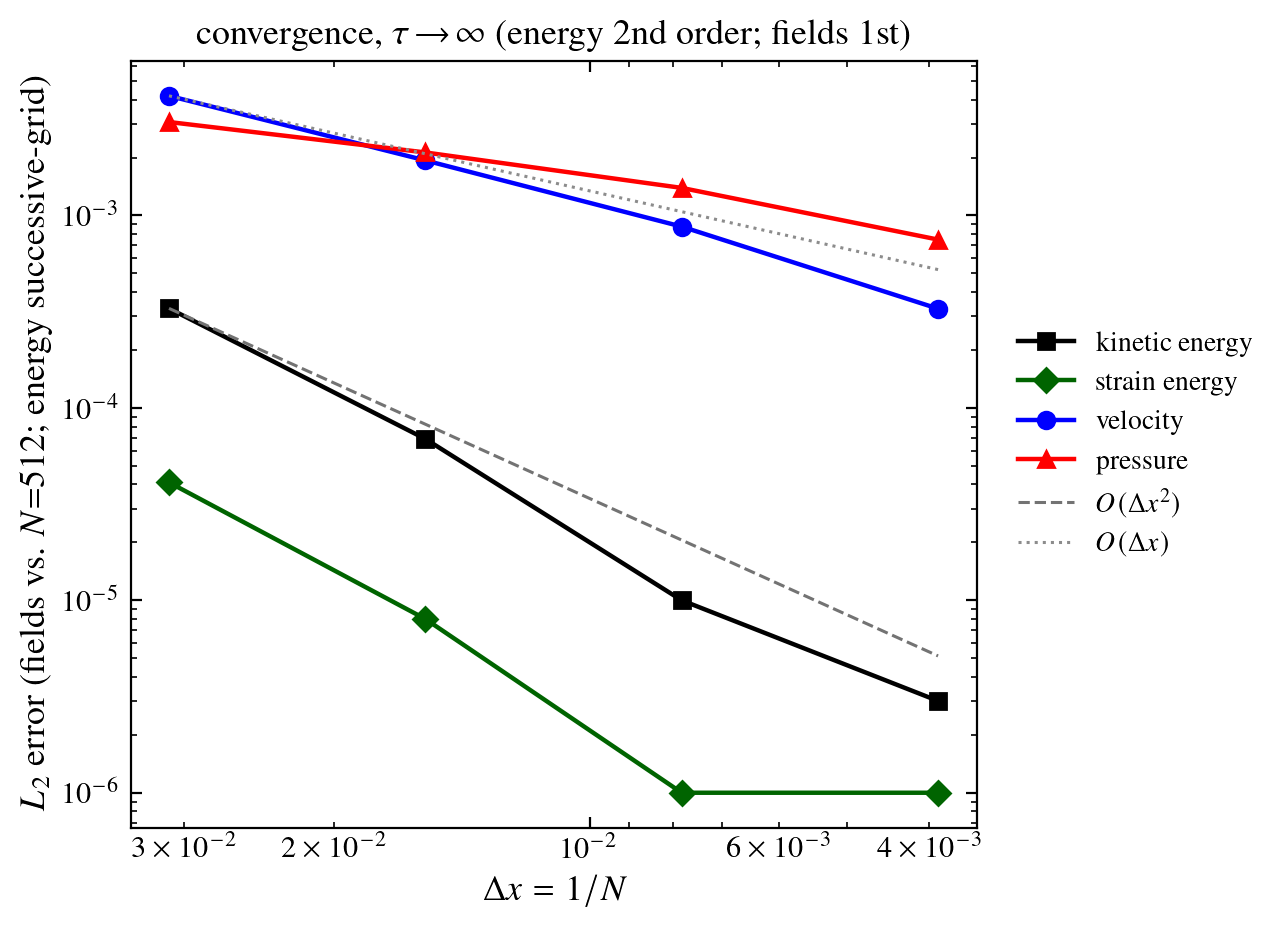
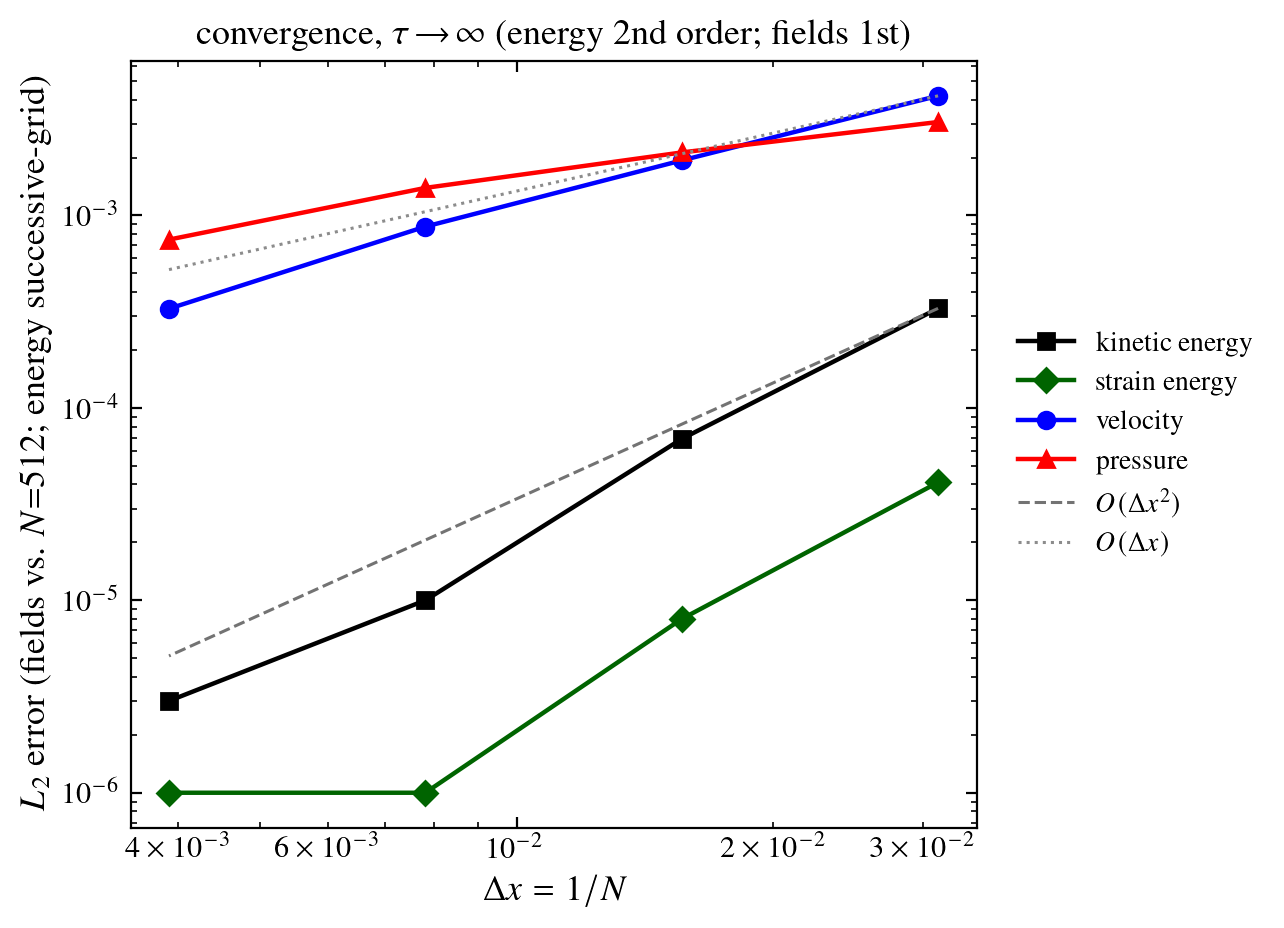
figs: flip convergence x-axis to Delta x increasing (fine->coarse, l->r)

diff --git a/benchmarks/tg_conv_tauinf.py b/benchmarks/tg_conv_tauinf.py
@@ -45,7 +45,7 @@ def main():
     axc.loglog(h, perr, "^-", color="red", lw=1.6, ms=6, label="pressure")
     axc.loglog(h, keerr[0] * (h / h[0]) ** 2, "--", color="0.45", lw=1.1, label="$O(\\Delta x^2)$")
     axc.loglog(h, verr[0] * (h / h[0]) ** 1, ":", color="0.45", lw=1.1, label="$O(\\Delta x)$")
-    axc.invert_xaxis(); axc.set_xlabel("$\\Delta x = 1/N$")
+    axc.set_xlabel("$\\Delta x = 1/N$")
     axc.set_ylabel(f"$L_2$ error (fields vs.\\ $N{{=}}{ref}$; energy successive-grid)")
     axc.set_title("convergence, $\\tau\\!\\to\\!\\infty$ (energy 2nd order; fields 1st)")
     axc.legend(fontsize=11, loc="center left", bbox_to_anchor=(1.02, 0.5), frameon=False)
